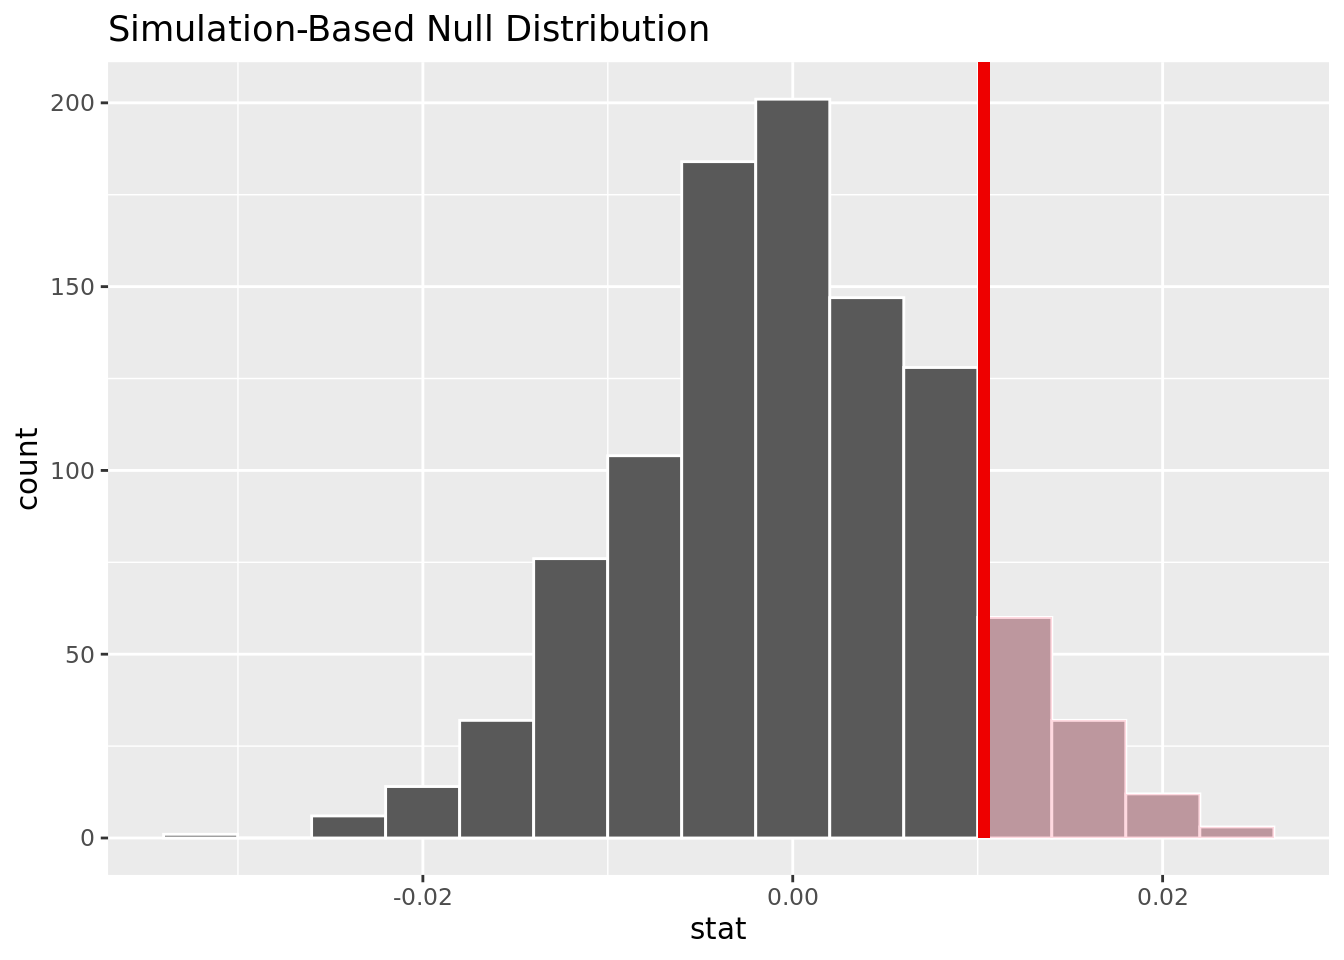
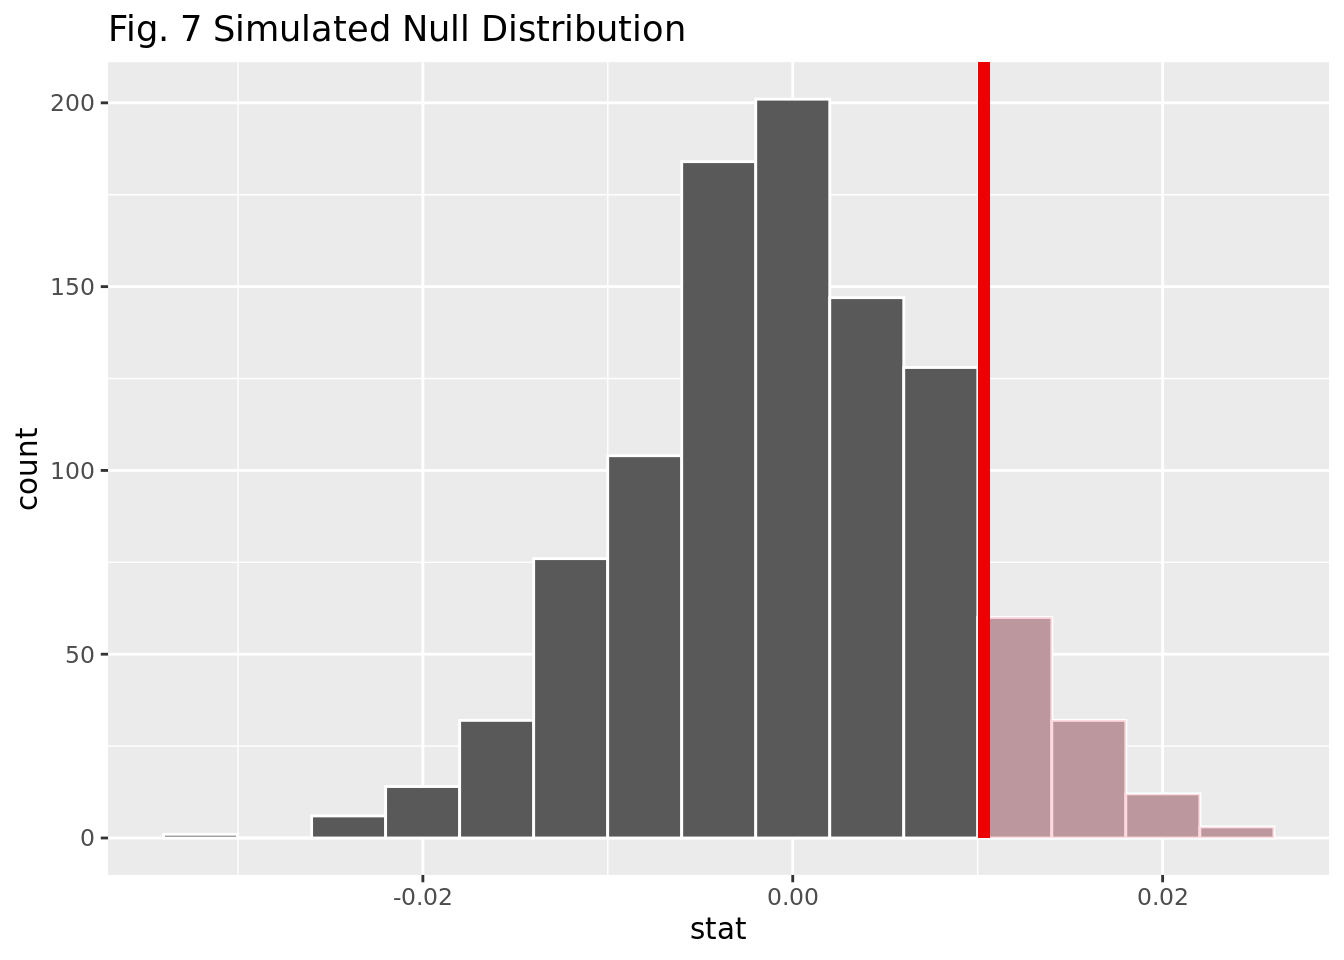
Made results less like a list and more like a paragraph. Added more conclusions

Changed region(s): [[0.0938, 0.0, 0.5312, 0.0625]]

diff --git a/docs/report.html b/docs/report.html
@@ -122,6 +122,7 @@ code span.wa { color: #60a0b0; font-weight: bold; font-style: italic; } /* Warni
   }
 }</script>
 
+  <script src="https://cdn.jsdelivr.net/npm/mathjax@3/es5/tex-chtml-full.js" type="text/javascript"></script>
 
 </head>
 
@@ -344,14 +345,16 @@ $ `Shooting.Body-Camera`   &lt;lgl&gt; TRUE, TRUE, TRUE, TRUE, TRUE, TRUE, TRUE,
 <div class="cell">
 <div class="sourceCode cell-code" id="cb16"><pre class="sourceCode r code-with-copy"><code class="sourceCode r"><span id="cb16-1"><a href="#cb16-1" aria-hidden="true" tabindex="-1"></a>police_shootings <span class="sc">|&gt;</span></span>
 <span id="cb16-2"><a href="#cb16-2" aria-hidden="true" tabindex="-1"></a>  <span class="fu">filter</span>(Factors.Armed <span class="sc">!=</span> <span class="st">"unknown"</span>) <span class="sc">|&gt;</span></span>
-<span id="cb16-3"><a href="#cb16-3" aria-hidden="true" tabindex="-1"></a>  <span class="fu">mutate</span>(<span class="at">Factors.Armed.Test =</span> <span class="fu">if_else</span>(Factors.Armed <span class="sc">==</span> <span class="st">"unarmed"</span> <span class="sc">|</span> Factors.Armed <span class="sc">==</span> <span class="st">"toy weapon"</span>, <span class="st">"unarmed"</span>, <span class="st">"armed with weapon"</span>)) <span class="sc">|&gt;</span></span>
-<span id="cb16-4"><a href="#cb16-4" aria-hidden="true" tabindex="-1"></a>  <span class="fu">ggplot</span>(<span class="fu">aes</span>(<span class="at">x =</span> Person.Gender, <span class="at">fill =</span> Factors.Armed.Test)) <span class="sc">+</span></span>
-<span id="cb16-5"><a href="#cb16-5" aria-hidden="true" tabindex="-1"></a>  <span class="fu">geom_bar</span>(<span class="at">position =</span> <span class="st">"fill"</span>) <span class="sc">+</span></span>
-<span id="cb16-6"><a href="#cb16-6" aria-hidden="true" tabindex="-1"></a>  <span class="fu">labs</span>(</span>
-<span id="cb16-7"><a href="#cb16-7" aria-hidden="true" tabindex="-1"></a>    <span class="at">title =</span> <span class="st">"Fig. 2: Arms Status of Victims by Gender"</span>,</span>
-<span id="cb16-8"><a href="#cb16-8" aria-hidden="true" tabindex="-1"></a>    <span class="at">y =</span> <span class="st">"% of Victims"</span>,</span>
-<span id="cb16-9"><a href="#cb16-9" aria-hidden="true" tabindex="-1"></a>    <span class="at">x =</span> <span class="st">"Sex"</span>,</span>
-<span id="cb16-10"><a href="#cb16-10" aria-hidden="true" tabindex="-1"></a>    <span class="at">fill =</span> <span class="st">"Arms Status"</span>)</span></code><button title="Copy to Clipboard" class="code-copy-button"><i class="bi"></i></button></pre></div>
+<span id="cb16-3"><a href="#cb16-3" aria-hidden="true" tabindex="-1"></a>  <span class="fu">mutate</span>(<span class="at">Factors.Armed.Test =</span> <span class="fu">if_else</span>(</span>
+<span id="cb16-4"><a href="#cb16-4" aria-hidden="true" tabindex="-1"></a>    Factors.Armed <span class="sc">==</span> <span class="st">"unarmed"</span> <span class="sc">|</span> Factors.Armed <span class="sc">==</span> <span class="st">"toy weapon"</span>, <span class="st">"unarmed"</span>, </span>
+<span id="cb16-5"><a href="#cb16-5" aria-hidden="true" tabindex="-1"></a>    <span class="st">"armed with weapon"</span>)) <span class="sc">|&gt;</span></span>
+<span id="cb16-6"><a href="#cb16-6" aria-hidden="true" tabindex="-1"></a>  <span class="fu">ggplot</span>(<span class="fu">aes</span>(<span class="at">x =</span> Person.Gender, <span class="at">fill =</span> Factors.Armed.Test)) <span class="sc">+</span></span>
+<span id="cb16-7"><a href="#cb16-7" aria-hidden="true" tabindex="-1"></a>  <span class="fu">geom_bar</span>(<span class="at">position =</span> <span class="st">"fill"</span>) <span class="sc">+</span></span>
+<span id="cb16-8"><a href="#cb16-8" aria-hidden="true" tabindex="-1"></a>  <span class="fu">labs</span>(</span>
+<span id="cb16-9"><a href="#cb16-9" aria-hidden="true" tabindex="-1"></a>    <span class="at">title =</span> <span class="st">"Fig. 2: Arms Status of Victims by Gender"</span>,</span>
+<span id="cb16-10"><a href="#cb16-10" aria-hidden="true" tabindex="-1"></a>    <span class="at">y =</span> <span class="st">"% of Victims"</span>,</span>
+<span id="cb16-11"><a href="#cb16-11" aria-hidden="true" tabindex="-1"></a>    <span class="at">x =</span> <span class="st">"Sex"</span>,</span>
+<span id="cb16-12"><a href="#cb16-12" aria-hidden="true" tabindex="-1"></a>    <span class="at">fill =</span> <span class="st">"Arms Status"</span>)</span></code><button title="Copy to Clipboard" class="code-copy-button"><i class="bi"></i></button></pre></div>
 <div class="cell-output-display">
 <p><img src="report_files/figure-html/arms-status-1.png" class="img-fluid" width="672"></p>
 </div>
@@ -400,21 +403,29 @@ $ `Shooting.Body-Camera`   &lt;lgl&gt; TRUE, TRUE, TRUE, TRUE, TRUE, TRUE, TRUE,
 <div class="cell">
 <div class="sourceCode cell-code" id="cb20"><pre class="sourceCode r code-with-copy"><code class="sourceCode r"><span id="cb20-1"><a href="#cb20-1" aria-hidden="true" tabindex="-1"></a>police_shootings <span class="sc">|&gt;</span></span>
 <span id="cb20-2"><a href="#cb20-2" aria-hidden="true" tabindex="-1"></a>  <span class="fu">filter</span>(Factors.Armed <span class="sc">!=</span> <span class="st">"unknown"</span>) <span class="sc">|&gt;</span></span>
-<span id="cb20-3"><a href="#cb20-3" aria-hidden="true" tabindex="-1"></a>  <span class="fu">mutate</span>(<span class="at">Factors.Armed.Test =</span> <span class="fu">if_else</span>(Factors.Armed <span class="sc">==</span> <span class="st">"unarmed"</span> <span class="sc">|</span> Factors.Armed <span class="sc">==</span> <span class="st">"toy weapon"</span>, <span class="st">"unarmed"</span>, <span class="st">"armed with weapon"</span>)) <span class="sc">|&gt;</span></span>
-<span id="cb20-4"><a href="#cb20-4" aria-hidden="true" tabindex="-1"></a>  <span class="fu">ggplot</span>(<span class="fu">aes</span>(<span class="at">x =</span> Person.Race, <span class="at">fill =</span> Factors.Armed.Test)) <span class="sc">+</span></span>
-<span id="cb20-5"><a href="#cb20-5" aria-hidden="true" tabindex="-1"></a>  <span class="fu">geom_bar</span>(<span class="at">position =</span> <span class="st">"fill"</span>) <span class="sc">+</span></span>
-<span id="cb20-6"><a href="#cb20-6" aria-hidden="true" tabindex="-1"></a>  <span class="fu">labs</span>(</span>
-<span id="cb20-7"><a href="#cb20-7" aria-hidden="true" tabindex="-1"></a>    <span class="at">title =</span> <span class="st">"Fig. 6: Arms Status of Victims by Race"</span>,</span>
-<span id="cb20-8"><a href="#cb20-8" aria-hidden="true" tabindex="-1"></a>    <span class="at">y =</span> <span class="st">"Proportion of Victims"</span>,</span>
-<span id="cb20-9"><a href="#cb20-9" aria-hidden="true" tabindex="-1"></a>    <span class="at">x =</span> <span class="st">"Race"</span>,</span>
-<span id="cb20-10"><a href="#cb20-10" aria-hidden="true" tabindex="-1"></a>    <span class="at">fill =</span> <span class="st">"Arms Status"</span>) <span class="sc">+</span></span>
-<span id="cb20-11"><a href="#cb20-11" aria-hidden="true" tabindex="-1"></a>    <span class="fu">theme</span>(<span class="at">axis.text.x =</span> <span class="fu">element_text</span>(<span class="at">angle =</span> <span class="dv">90</span>, <span class="at">vjust =</span> <span class="fl">0.5</span>, <span class="at">hjust =</span> <span class="dv">1</span>))</span></code><button title="Copy to Clipboard" class="code-copy-button"><i class="bi"></i></button></pre></div>
+<span id="cb20-3"><a href="#cb20-3" aria-hidden="true" tabindex="-1"></a>  <span class="fu">mutate</span>(<span class="at">Factors.Armed.Test =</span> <span class="fu">if_else</span>(</span>
+<span id="cb20-4"><a href="#cb20-4" aria-hidden="true" tabindex="-1"></a>    Factors.Armed <span class="sc">==</span> <span class="st">"unarmed"</span> <span class="sc">|</span> Factors.Armed <span class="sc">==</span> <span class="st">"toy weapon"</span>, <span class="st">"unarmed"</span>, </span>
+<span id="cb20-5"><a href="#cb20-5" aria-hidden="true" tabindex="-1"></a>    <span class="st">"armed with weapon"</span>)) <span class="sc">|&gt;</span></span>
+<span id="cb20-6"><a href="#cb20-6" aria-hidden="true" tabindex="-1"></a>  <span class="fu">ggplot</span>(<span class="fu">aes</span>(<span class="at">x =</span> Person.Race, <span class="at">fill =</span> Factors.Armed.Test)) <span class="sc">+</span></span>
+<span id="cb20-7"><a href="#cb20-7" aria-hidden="true" tabindex="-1"></a>  <span class="fu">geom_bar</span>(<span class="at">position =</span> <span class="st">"fill"</span>) <span class="sc">+</span></span>
+<span id="cb20-8"><a href="#cb20-8" aria-hidden="true" tabindex="-1"></a>  <span class="fu">labs</span>(</span>
+<span id="cb20-9"><a href="#cb20-9" aria-hidden="true" tabindex="-1"></a>    <span class="at">title =</span> <span class="st">"Fig. 6: Arms Status of Victims by Race"</span>,</span>
+<span id="cb20-10"><a href="#cb20-10" aria-hidden="true" tabindex="-1"></a>    <span class="at">y =</span> <span class="st">"Proportion of Victims"</span>,</span>
+<span id="cb20-11"><a href="#cb20-11" aria-hidden="true" tabindex="-1"></a>    <span class="at">x =</span> <span class="st">"Race"</span>,</span>
+<span id="cb20-12"><a href="#cb20-12" aria-hidden="true" tabindex="-1"></a>    <span class="at">fill =</span> <span class="st">"Arms Status"</span>) <span class="sc">+</span></span>
+<span id="cb20-13"><a href="#cb20-13" aria-hidden="true" tabindex="-1"></a>    <span class="fu">theme</span>(<span class="at">axis.text.x =</span> <span class="fu">element_text</span>(<span class="at">angle =</span> <span class="dv">90</span>, <span class="at">vjust =</span> <span class="fl">0.5</span>, <span class="at">hjust =</span> <span class="dv">1</span>))</span></code><button title="Copy to Clipboard" class="code-copy-button"><i class="bi"></i></button></pre></div>
 <div class="cell-output-display">
 <p><img src="report_files/figure-html/bar-graph-arms-status-race-1.png" class="img-fluid" width="672"></p>
 </div>
 </div>
-<p>We will now investigate if the proportion of unarmed people who were shot by police equal for victims of color in comparison to white victims. We hypothesize that the proportion of unarmed people of color shot is significantly greater than the proportion of unarmed white people.</p>
-<p>Null Hypothesis: Alternative Hypothesis:</p>
+<p>We will now investigate if the proportion of unarmed people who were shot by police equal for victims of color in comparison to white victims. We hypothesize that the proportion of unarmed people of color shot is significantly greater than the proportion of unarmed white people. In order to investigate this hypothesis, we will perform a hypothesis test using a significance level of <span class="math inline">\(\alpha = 0.05\)</span>.</p>
+<p>(Note: in the context of this question, we will consider someone as a “POC” if they do not identify as “White”)</p>
+<p><span class="math inline">\(\pi_{POC}\)</span> = the proportion of unarmed people out of those shot who identify as a POC.</p>
+<p><span class="math inline">\(\pi_{White}\)</span> = the proportion of unarmed people out of those shot who identify as a White</p>
+<p><span class="math inline">\(H_o\)</span>: <span class="math inline">\(\pi_{POC}\)</span> = <span class="math inline">\(\pi_{White}\)</span></p>
+<p>The proportion of unarmed people out of those shot who identify as a POC is equal to the proportion of unarmed people out of those shot who identify as white.</p>
+<p><span class="math inline">\(H_A\)</span>: <span class="math inline">\(\pi_{POC}\)</span> &gt; <span class="math inline">\(\pi_{White}\)</span></p>
+<p>The proportion of unarmed people out of those shot who identify as a POC is greater than the proportion of unarmed people out of those shot who identify as white.</p>
 <div class="cell">
 <div class="sourceCode cell-code" id="cb21"><pre class="sourceCode r code-with-copy"><code class="sourceCode r"><span id="cb21-1"><a href="#cb21-1" aria-hidden="true" tabindex="-1"></a>hypo_data <span class="ot">&lt;-</span> police_shootings <span class="sc">|&gt;</span></span>
 <span id="cb21-2"><a href="#cb21-2" aria-hidden="true" tabindex="-1"></a>  <span class="fu">filter</span>(Factors.Armed <span class="sc">!=</span> <span class="st">"unknown"</span>, Person.Race <span class="sc">!=</span> <span class="st">"Unknown"</span>) <span class="sc">|&gt;</span></span>
@@ -424,10 +435,11 @@ $ `Shooting.Body-Camera`   &lt;lgl&gt; TRUE, TRUE, TRUE, TRUE, TRUE, TRUE, TRUE,
 <span id="cb21-6"><a href="#cb21-6" aria-hidden="true" tabindex="-1"></a>         <span class="at">race =</span> <span class="fu">if_else</span>(Person.Race <span class="sc">!=</span> <span class="st">"White"</span>, <span class="st">"POC"</span>, <span class="st">"White"</span>)) </span>
 <span id="cb21-7"><a href="#cb21-7" aria-hidden="true" tabindex="-1"></a><span class="fu">set.seed</span>(<span class="dv">69</span>)</span>
 <span id="cb21-8"><a href="#cb21-8" aria-hidden="true" tabindex="-1"></a>null_dist <span class="ot">&lt;-</span> hypo_data <span class="sc">|&gt;</span></span>
-<span id="cb21-9"><a href="#cb21-9" aria-hidden="true" tabindex="-1"></a>  <span class="fu">specify</span>(<span class="at">response =</span> Factors.Armed.Test, <span class="at">explanatory =</span> race , <span class="at">success =</span> <span class="st">"unarmed"</span>) <span class="sc">|&gt;</span></span>
-<span id="cb21-10"><a href="#cb21-10" aria-hidden="true" tabindex="-1"></a>  <span class="fu">hypothesize</span>(<span class="at">null =</span> <span class="st">"independence"</span>) <span class="sc">|&gt;</span></span>
-<span id="cb21-11"><a href="#cb21-11" aria-hidden="true" tabindex="-1"></a>  <span class="fu">generate</span>(<span class="at">reps =</span> <span class="dv">1000</span>, <span class="at">type =</span> <span class="st">"permute"</span>) <span class="sc">|&gt;</span></span>
-<span id="cb21-12"><a href="#cb21-12" aria-hidden="true" tabindex="-1"></a>  <span class="fu">calculate</span>(<span class="at">stat =</span> <span class="st">"diff in props"</span> , <span class="at">order =</span> <span class="fu">c</span>(<span class="st">"POC"</span>, <span class="st">"White"</span>))</span></code><button title="Copy to Clipboard" class="code-copy-button"><i class="bi"></i></button></pre></div>
+<span id="cb21-9"><a href="#cb21-9" aria-hidden="true" tabindex="-1"></a>  <span class="fu">specify</span>(<span class="at">response =</span> Factors.Armed.Test, </span>
+<span id="cb21-10"><a href="#cb21-10" aria-hidden="true" tabindex="-1"></a>          <span class="at">explanatory =</span> race , <span class="at">success =</span> <span class="st">"unarmed"</span>) <span class="sc">|&gt;</span></span>
+<span id="cb21-11"><a href="#cb21-11" aria-hidden="true" tabindex="-1"></a>  <span class="fu">hypothesize</span>(<span class="at">null =</span> <span class="st">"independence"</span>) <span class="sc">|&gt;</span></span>
+<span id="cb21-12"><a href="#cb21-12" aria-hidden="true" tabindex="-1"></a>  <span class="fu">generate</span>(<span class="at">reps =</span> <span class="dv">1000</span>, <span class="at">type =</span> <span class="st">"permute"</span>) <span class="sc">|&gt;</span></span>
+<span id="cb21-13"><a href="#cb21-13" aria-hidden="true" tabindex="-1"></a>  <span class="fu">calculate</span>(<span class="at">stat =</span> <span class="st">"diff in props"</span> , <span class="at">order =</span> <span class="fu">c</span>(<span class="st">"POC"</span>, <span class="st">"White"</span>))</span></code><button title="Copy to Clipboard" class="code-copy-button"><i class="bi"></i></button></pre></div>
 </div>
 <div class="cell">
 <div class="sourceCode cell-code" id="cb22"><pre class="sourceCode r code-with-copy"><code class="sourceCode r"><span id="cb22-1"><a href="#cb22-1" aria-hidden="true" tabindex="-1"></a>hypo_data <span class="sc">|&gt;</span></span>
@@ -452,7 +464,8 @@ $ `Shooting.Body-Camera`   &lt;lgl&gt; TRUE, TRUE, TRUE, TRUE, TRUE, TRUE, TRUE,
 <span id="cb25-3"><a href="#cb25-3" aria-hidden="true" tabindex="-1"></a>obs_diff_phat <span class="ot">&lt;-</span> p_hat_POC <span class="sc">-</span> p_hat_white</span>
 <span id="cb25-4"><a href="#cb25-4" aria-hidden="true" tabindex="-1"></a></span>
 <span id="cb25-5"><a href="#cb25-5" aria-hidden="true" tabindex="-1"></a><span class="fu">visualize</span>(null_dist) <span class="sc">+</span></span>
-<span id="cb25-6"><a href="#cb25-6" aria-hidden="true" tabindex="-1"></a> <span class="fu">shade_p_value</span>(<span class="at">obs_stat =</span> obs_diff_phat, <span class="at">direction =</span> <span class="st">"greater"</span>) </span></code><button title="Copy to Clipboard" class="code-copy-button"><i class="bi"></i></button></pre></div>
+<span id="cb25-6"><a href="#cb25-6" aria-hidden="true" tabindex="-1"></a> <span class="fu">shade_p_value</span>(<span class="at">obs_stat =</span> obs_diff_phat, <span class="at">direction =</span> <span class="st">"greater"</span>) <span class="sc">+</span></span>
+<span id="cb25-7"><a href="#cb25-7" aria-hidden="true" tabindex="-1"></a>  <span class="fu">labs</span>(<span class="at">title =</span> <span class="st">"Fig. 7 Simulated Null Distribution"</span>)</span></code><button title="Copy to Clipboard" class="code-copy-button"><i class="bi"></i></button></pre></div>
 <div class="cell-output-display">
 <p><img src="report_files/figure-html/hypothesis-race-pvalues-1.png" class="img-fluid" width="672"></p>
 </div>
@@ -466,13 +479,35 @@ $ `Shooting.Body-Camera`   &lt;lgl&gt; TRUE, TRUE, TRUE, TRUE, TRUE, TRUE, TRUE,
 </div>
 </div>
 <p><strong>Results</strong></p>
-<p>Based on our summary statistics for the entire data set, we observed that the mean and median age of shooting victims is 35.4 and 34.0 years, respectively. Moreover, the standard deviation of this age range is 14.9 years, demonstrating the wide spread of data points included.</p>
-<p>Figure 1 shows a slight decrease in shooting per day in 2021 though the total range of average shootings per day was from roughly 2.45 shootings to 2.8 shootings.</p>
-<p>Figure 2 looks at the arms status of victims by gender. This figure shows that female victims were more likely to be armed than male victims. One reason for this is that male victims could have been seen as more aggressive and therefore more likely to become a victim no matter if they were armed.</p>
-<p>In Figure 3, we can see that the age distribution of victims does not vary much between races. But if we look at the number of different races in the count of total victims, we can see white victims and african american victims were most common.</p>
-<p>As seen in Figure 4, the median age is roughly 34 years old for males and 35 years old for females. Male victims differ by their outliers, as many male victims are over the age of 75. The unknown victims appear to be significantly younger as seen by the median of ~21 years old.</p>
-<p>As seen in Figure 5, the most victimized race was white and black. Close to 3000 of the victims were white; whereas, over 1500 victims were black.</p>
-<p>As seen in Figure 6, the race with the most unarmed victims was black and the race with the least unarmed victims was Native American. This visualization can provide ample information on implicit bias and how race impacts the police’s approaches to interactions with different races.</p>
+<p>Based on our summary statistics for the entire data set, we observed that the mean and median age of shooting victims is 35.4 and 34.0 years, respectively. Moreover, the standard deviation of this age range is 14.9 years, demonstrating the wide spread of data points included. We noticed a slight decrease in shooting per day in 2021 though the total range of average shootings per day was small and somewhat insignificant (from roughly 2.45 shootings to 2.8 shootings). When looking at the arms status of victims by gender, female victims were more likely to be armed than male victims. One reason for this is that male victims could have been seen as more aggressive and therefore more likely to become a victim no matter if they were armed. The age distribution of victims does not vary much between races. When we look at the different races in the count of total victims, we can see white victims and african american victims were most common. Close to 2962 of the victims were white; whereas, 1552 victims were black. If race had no impact on probability of being a victim, the proportions of victims by race would be similar as the US population by race. White Americans represent 0.578 of the population. African americans make up 0.121 of the population.</p>
+<div class="cell">
+<div class="sourceCode cell-code" id="cb28"><pre class="sourceCode r code-with-copy"><code class="sourceCode r"><span id="cb28-1"><a href="#cb28-1" aria-hidden="true" tabindex="-1"></a>police_shootings <span class="sc">|&gt;</span></span>
+<span id="cb28-2"><a href="#cb28-2" aria-hidden="true" tabindex="-1"></a>  <span class="fu">count</span>(Person.Race)</span></code><button title="Copy to Clipboard" class="code-copy-button"><i class="bi"></i></button></pre></div>
+<div class="cell-output cell-output-stdout">
+<pre><code># A tibble: 7 × 2
+  Person.Race          n
+  &lt;chr&gt;            &lt;int&gt;
+1 African American  1552
+2 Asian              106
+3 Hispanic          1081
+4 Native American     91
+5 Other               47
+6 Unknown            730
+7 White             2962</code></pre>
+</div>
+<div class="sourceCode cell-code" id="cb30"><pre class="sourceCode r code-with-copy"><code class="sourceCode r"><span id="cb30-1"><a href="#cb30-1" aria-hidden="true" tabindex="-1"></a>white_american_prop <span class="ot">&lt;-</span> <span class="dv">2962</span><span class="sc">/</span><span class="dv">6569</span></span>
+<span id="cb30-2"><a href="#cb30-2" aria-hidden="true" tabindex="-1"></a>white_american_prop</span></code><button title="Copy to Clipboard" class="code-copy-button"><i class="bi"></i></button></pre></div>
+<div class="cell-output cell-output-stdout">
+<pre><code>[1] 0.4509058</code></pre>
+</div>
+<div class="sourceCode cell-code" id="cb32"><pre class="sourceCode r code-with-copy"><code class="sourceCode r"><span id="cb32-1"><a href="#cb32-1" aria-hidden="true" tabindex="-1"></a>african_american_prop <span class="ot">&lt;-</span> <span class="dv">1552</span><span class="sc">/</span><span class="dv">6569</span>  </span>
+<span id="cb32-2"><a href="#cb32-2" aria-hidden="true" tabindex="-1"></a>african_american_prop</span></code><button title="Copy to Clipboard" class="code-copy-button"><i class="bi"></i></button></pre></div>
+<div class="cell-output cell-output-stdout">
+<pre><code>[1] 0.2362612</code></pre>
+</div>
+</div>
+<p>White americans represent 0.578 of the US population while they only represent 0.45 of the victims. African americans make up 0.121 of the population while they present 0.236 of the victims.Therefore we can see that african american were targeted at a higher rate than white americans.</p>
+<p>The race with the most unarmed victims was black and the race with the least unarmed victims was Native American. Visualization can provide ample information on implicit bias and how race impacts the police’s approaches to interactions with different races. We also found the median age is roughly 34 years old for males and 35 years old for females. Male victims differ by their outliers, as many male victims are over the age of 75. The unknown victims appear to be significantly younger as seen by the median of ~21 years old. We performed a hypothesis test proportion of unarmed people out of those shot who identify as a POC is equal to the proportion of unarmed people out of those shot who identify as white, and got a p-value of 0.107. Utilizing a significance level of 0.05, we fail to reject the null hypothesis that the proportion of unarmed people out of those shot who identify as a POC is equal to the proportion of unarmed people out of those shot who identify as white, as 0.107 is greater than 0.05. Therefore, we have weak evidence to support the alternative hypothesis that the proportion of unarmed people out of those shot who identify as a POC is greater than the proportion of unarmed people out of those shot who identify as white.</p>
 
 
 
